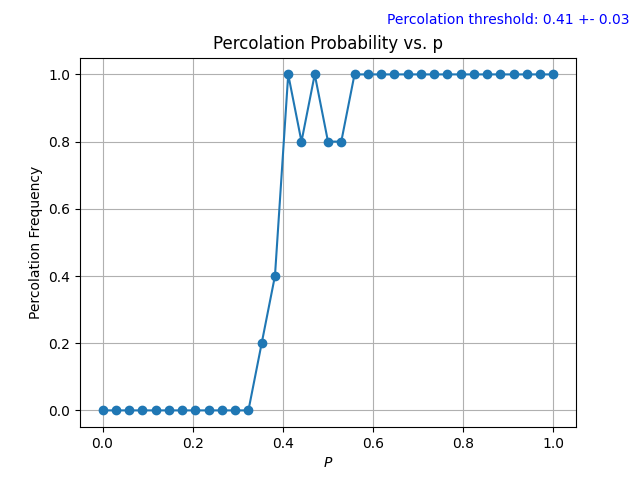
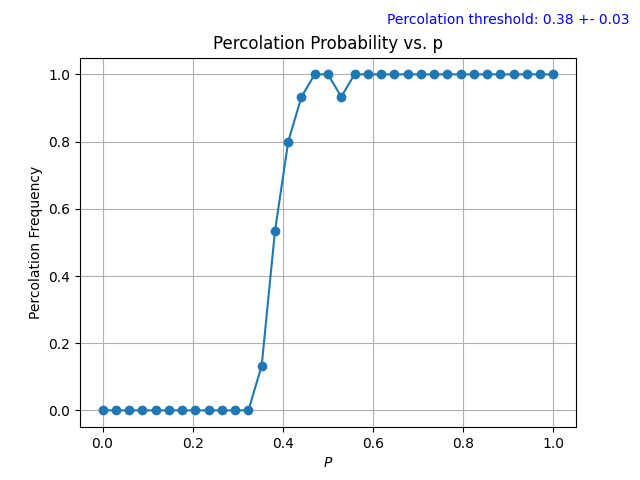
Started: computing pc by propagatoin time and critial exponents based on cluster size

Changed region(s): [[0.4375, 0.125, 0.5625, 0.4062], [0.375, 0.4375, 0.4375, 0.8438], [0.875, 0.0312, 0.9062, 0.0625]]

diff --git a/classes/regular/simulation.py b/classes/regular/simulation.py
@@ -6,6 +6,8 @@ import os
 import pandas as pd
 import seaborn as sns
 import joblib
+import scipy.optimize as opt
+import scipy.stats as stats
 
 from classes.regular.auxiliarfunc import percolation_check, Apply_occupation_proba, log_criteria_niter
 from classes.fit.fitting import expFit
@@ -196,6 +198,46 @@ class forestFire():
             plt.savefig(saveRoute + '.png')
         
         return p_c
+    
+    def estimate_percolation_threshold(self,m, matrix,lr):
+        """
+        Estima el valor crítico de p utilizando un ajuste con una distribución chi-cuadrado ajustable.
+
+        Parámetros:
+        - p_values: lista de valores de p a probar.
+        - m: número de simulaciones por cada p.
+        - matrix: matriz inicial del incendio.
+
+        Retorna:
+        - pc: valor crítico estimado.
+        - popt: parámetros ajustados (A, pc, k, C).
+        - p_values: valores de p usados en el ajuste.
+        - times: tiempos promedio de propagación.
+        """
+        times = []
+        Pc = 0.1
+        while Pc < 1:
+            t_sim = np.zeros(m)
+            for i in range(m):
+                self.forest = matrix.copy()
+                t_sim[i] = self.propagateFire(ps=1, pb=Pc)  
+            times.append(np.mean(t_sim))
+            delta = lr * ()/()
+            Pc += delta
+
+        times = np.array(times)
+
+
+
+        return Pc
+        
+    
+    
+
+
+
+                
+        
     #-------------------------------------------------------------------------------------------------
     
     def criticalExponent(self,
@@ -203,7 +245,8 @@ class forestFire():
                          intervalTol:float, 
                          n:int,m:int,n2:int,m2:int,
                          fixed:str,fixed_values:list,
-                         initial:np.ndarray)->None:
+                         initial:np.ndarray,
+                         method:str)->None:
         '''
         the critical exponents are saved on a matrix with a shape (1,len(fixed_values),2)
         On the first layer we firn the left critical exponents, and on the sencod, the rigth ones, each column
@@ -216,9 +259,13 @@ class forestFire():
         
         # Critical thresholds
         p_c = np.zeros(len(fixed_values))
-        for i,p in enumerate(fixed_values):
-            self.forest = np.copy(initial)
-            p_c[i] = self.percolationThreshold(n=n,m=m, matrix=self.forest,plot=False,fixed=fixed,fixed_value=fixed_values[i])
+        if method == 'freq':
+            for i,p in enumerate(fixed_values):
+                self.forest = np.copy(initial)
+                p_c[i] = self.percolationThreshold(n=n,m=m, matrix=self.forest,plot=False,fixed=fixed,fixed_value=fixed_values[i])
+        else:
+            # Implement  p_c by propagation time
+            pass
 
         
         # Store time values values for regression
@@ -301,14 +348,15 @@ class forestFire():
             critical_exponents[0,i,1] = slope_plus
             
         # Reshape data to save as a csv
-        left_t_exponents_data = pd.DataFrame(log_t_data[:,:,0])
-        rigt_t_exponents_data = pd.DataFrame(log_t_data[:,:,1])
+        left_t_exponents_data = pd.DataFrame(log_t_data[:,:,0], columns=[f'P: {fixed_values[0]}' , f'P: {fixed_values[1]}', f'P: {fixed_values[2]}'])
+        rigt_t_exponents_data = pd.DataFrame(log_t_data[:,:,1], columns=[f'P: {fixed_values[0]}' , f'P: {fixed_values[1]}', f'P: {fixed_values[2]}'])
         
-        left_p_exponents_data = pd.DataFrame(log_p_values[:,:,0])
-        rigt_p_exponents_data = pd.DataFrame(log_p_values[:,:,1])
+        left_p_exponents_data = pd.DataFrame(log_p_values[:,:,0], columns=['P1','P2','P3'])
+        rigt_p_exponents_data = pd.DataFrame(log_p_values[:,:,1], columns=['P1','P2','P3'])
         
-        left_critical_exponents = pd.DataFrame(critical_exponents[:,:,0])
-        rigth_critical_exponents = pd.DataFrame(critical_exponents[:,:,1])
+        left_critical_exponents = pd.DataFrame(critical_exponents[:,:,0], columns=[f'P: {fixed_values[0]} - a1 ',f'P: {fixed_values[1]} - a2 ',f'P: {fixed_values[2]} - a3 '])
+        rigth_critical_exponents = pd.DataFrame(critical_exponents[:,:,1], columns=[f'P: {fixed_values[0]} - a1 ',f'P: {fixed_values[1]} - a2 ',f'P: {fixed_values[2]} - a3 '])
+    
         
         left_t_exponents_data.to_csv(save_route + 'left_t_exponents_data_fixed_' + fixed + '.csv')
         rigt_t_exponents_data.to_csv(save_route + 'rigt_t_exponents_data_fixed_' + fixed + '.csv')
@@ -317,7 +365,140 @@ class forestFire():
         
         left_critical_exponents.to_csv(save_route + 'left_critical_exponents_fixed_' + fixed + '.csv')
         rigth_critical_exponents.to_csv(save_route + 'rigth_critical_exponents_fixed_' + fixed + '.csv')
-    
+
+    def criticalExponent_cluster(self,
+                         save_route:str, 
+                         intervalTol:float, 
+                         n:int,m:int,n2:int,m2:int,
+                         fixed:str,fixed_values:list,
+                         initial:np.ndarray,
+                         method:str)->None:
+        '''
+        the critical exponents are saved on a matrix with a shape (1,len(fixed_values),2)
+        On the first layer we firn the left critical exponents, and on the sencod, the rigth ones, each column
+        is a fixed value.
+        args:
+        n2: int -> Number of points on the interval to find the critical exponent
+        m2: int -> Number of simulations with fixed p_bond and p_site to compute average propagation time
+        '''
+        # fiexed = 1 is for fixing p_bond and varying p_site
+        
+        # Critical thresholds
+        p_c = np.zeros(len(fixed_values))
+        if method == 'freq':
+            for i,p in enumerate(fixed_values):
+                self.forest = np.copy(initial)
+                p_c[i] = self.percolationThreshold(n=n,m=m, matrix=self.forest,plot=False,fixed=fixed,fixed_value=fixed_values[i])
+        else:
+            # Implement  p_c by propagation time
+            pass
+
+        
+        # Store time values values for regression
+        tabular_info = np.zeros((n2,len(fixed_values),2))   # 1st layer for leaft critical exponent and 2nd for roght critical exponent
+        # Store p values for regression
+        p_values = np.zeros((n2,len(fixed_values),2))
+        
+        
+        # Compute for each fixed value
+        for j,fixed_value in enumerate(fixed_values):
+            # Critical exponent from left
+            P_minus = np.linspace(p_c[j] * (1-intervalTol), p_c[j], n2)
+            p_values[:,j,0] = P_minus
+            # Critical exponent from right
+            P_plus = np.linspace(p_c[j], p_c[j] * (intervalTol + 1), n2)
+            p_values[:,j,1] = P_plus
+            # Store average times
+            average_s_minus = np.zeros(n2)
+            average_s_plus = np.zeros(n2)
+            
+            for i,(p_minus,p_plus) in enumerate(zip(P_minus,P_plus)):
+                s_minus = np.zeros(m2)
+                s_plus = np.zeros(m2)
+                # Calculate the average propagation time
+                
+                # For fixed p_bond
+                if fixed == 'bond':
+                    # For left critical exponent
+                    for k in range(m2):
+                        self.forest = np.copy(initial)
+                        _ = self.propagateFire(ps=p_minus,pb=fixed_value)
+                        s_minus[k] = np.sum(self.historicalFirePropagation[-1] == 3)
+
+                    average_s_minus[i] = s_minus.mean()
+                    
+                    # for right critical exponent
+                    for k in range(m2):
+                        self.forest = np.copy(initial)
+                        _ = self.propagateFire(ps=p_plus,pb=fixed_value)
+                        s_plus[k] = np.sum(self.historicalFirePropagation[-1] == 3)
+
+                    average_s_plus[i] = s_plus.mean()
+                    
+                    
+                # For fixed P_site
+                else:
+                    # For left critical exponent
+                    for k in range(m2):
+                        self.forest = np.copy(initial)
+                        _ = self.propagateFire(ps=fixed_value,pb=p_minus)
+                        s_minus[k] = np.sum(self.historicalFirePropagation[-1] == 3)
+
+                    average_s_minus[i] = s_minus.mean()
+                    
+                    # for right critical exponent
+                    for k in range(m2):
+                        self.forest = np.copy(initial)
+                        _ = self.propagateFire(ps=fixed_value,pb=p_plus)
+                        s_plus[k] = np.sum(self.historicalFirePropagation[-1] == 3)
+
+                    average_s_plus[i] = s_plus.mean()
+                    
+                    
+            # Store the propagation time for each fixed value for left critical exponent   
+            tabular_info[:,j,0] = average_s_minus[:].copy()
+            # Store the propagation time for each fixed value for right critical exponent
+            tabular_info[:,j,1] = average_s_plus[:].copy()
+            
+        # Compute logarithm
+        log_s_data = np.log(tabular_info)
+        log_p_values = np.log(p_values)
+        
+        # Space to store critical exponents
+        critical_exponents = np.zeros((1,len(fixed_values),2))
+        
+        
+        for i in range(len(fixed_values)):
+            # Calculate and store left critical exponents
+            slope_minus, intercept_minus, r_value_minus, p_value_minus, std_err_minus = linregress(log_s_data[:,i,0], log_p_values[:,i,0])
+            critical_exponents[0,i,0] = slope_minus
+            
+            # Calculate and store rigth critical exponents
+            slope_plus, intercept_plus, r_value_plus, p_value_plus, std_err_plus = linregress(log_s_data[:,i,1], log_p_values[:,i,1])
+            critical_exponents[0,i,1] = slope_plus
+            
+        # Reshape data to save as a csv
+        #left_s_exponents_data = pd.DataFrame(log_s_data[:,:,0], columns=[f'P: {fixed_values[0]}' , f'P: {fixed_values[1]}', f'P: {fixed_values[2]}'])
+        #rigt_s_exponents_data = pd.DataFrame(log_s_data[:,:,1], columns=[f'P: {fixed_values[0]}' , f'P: {fixed_values[1]}', f'P: {fixed_values[2]}'])
+        #
+        #left_p_exponents_data = pd.DataFrame(log_p_values[:,:,0], columns=['P1','P2','P3'])
+        #rigt_p_exponents_data = pd.DataFrame(log_p_values[:,:,1], columns=['P1','P2','P3'])
+        #
+        #left_critical_exponents = pd.DataFrame(critical_exponents[:,:,0], columns=[f'P: {fixed_values[0]} - a1 ',f'P: {fixed_values[1]} - a2 ',f'P: {fixed_values[2]} - a3 '])
+        #rigth_critical_exponents = pd.DataFrame(critical_exponents[:,:,1], columns=[f'P: {fixed_values[0]} - a1 ',f'P: {fixed_values[1]} - a2 ',f'P: {fixed_values[2]} - a3 '])
+    #
+        #
+        #left_s_exponents_data.to_csv(save_route + 'left_s_exponents_data_fixed_' + fixed + '.csv')
+        #rigt_s_exponents_data.to_csv(save_route + 'rigt_s_exponents_data_fixed_' + fixed + '.csv')
+        #left_p_exponents_data.to_csv(save_route + 'left_p_exponents_data_fixed_' + fixed + '.csv')
+        #rigt_p_exponents_data.to_csv(save_route + 'rigt_p_exponents_data_fixed_' + fixed + '.csv')
+        #
+        #left_critical_exponents.to_csv(save_route + 'left_critical_exponents_fixed_' + fixed + '.csv')
+        #rigth_critical_exponents.to_csv(save_route + 'rigth_critical_exponents_fixed_' + fixed + '.csv')
+        
+        
+        
+            
         
     def compareBondSite(self,resolution:int,n_iter:int, imagePath, folder_path, file_name, matrix,propTimeThreshold:int=120):
         # Verificar si la carpeta existe, si no, crearla

diff --git a/main.py b/main.py
@@ -8,6 +8,7 @@ import numpy as np
 from scipy.spatial import Voronoi
 
 from scripts.routes import routes_dict, data_route
+import matplotlib.pyplot as plt
 
 
 if __name__ == '__main__':
@@ -114,7 +115,7 @@ if __name__ == '__main__':
 #++++++++++++++++++++++++++++++++++++++++++++++++++++++++++++++++++++++++++++++++++++++++++++++++++++++++++++++++++++++
     elif usrChoice == 3:
         n = 35    # Amount of values to consider for p
-        m = 5      # Amount of trials per p        
+        m = 20      # Amount of trials per p        
         
         try:
             tessellation = int(input("Choose one: \n1   Squared\n2  Triangular\n3    Hexagonal\n4   Voronoi\n"))
@@ -127,6 +128,8 @@ if __name__ == '__main__':
             route = routes_dict['squared'] +  name
             forest = simulation.squareForest(burningThreshold=0.95,occuProba=0.95 ,initialForest=matrix, saveHistoricalPropagation=True)
             p_c = forest.percolationThreshold(n,m,matrix,True,"site", fixed_value=1,saveRoute=route)
+            #p_c = forest.estimate_percolation_threshold(m=m,matrix=matrix)
+           
             print("The percolation threshold is: ",p_c)
             
             
@@ -135,7 +138,7 @@ if __name__ == '__main__':
             name = 'TriangularPercolationThreshold'
             route = routes_dict['triangular'] + name 
             forest = simulation.triangularForest(burningThreshold=0.55, occuProba=1 ,initialForest=matrix)
-            p_c = forest.percolationThreshold(n,m,matrix,True,"site", saveRoute=route)
+            p_c = forest.percolationThreshold(n,m,matrix,False,"site",fixed_value=1,saveRoute=route)
             print("The percolation threshold is: ",p_c)
             
         elif tessellation == 3:
